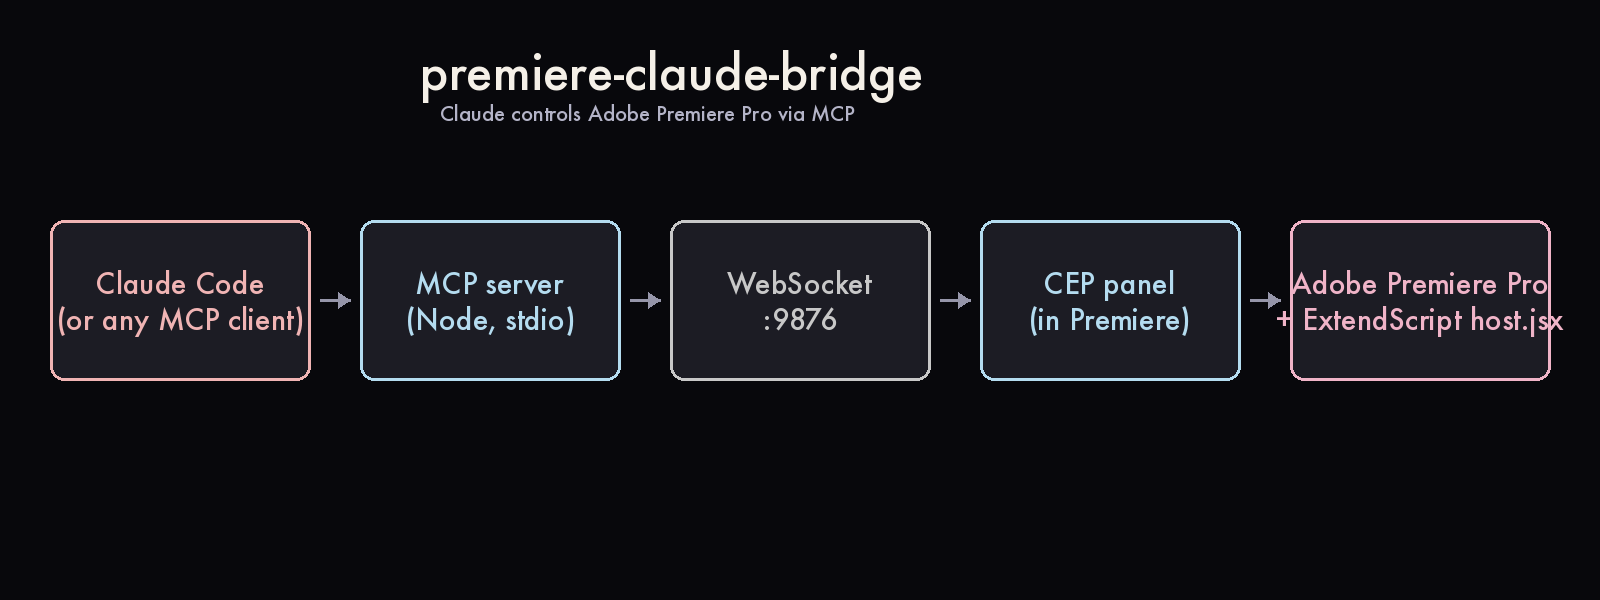
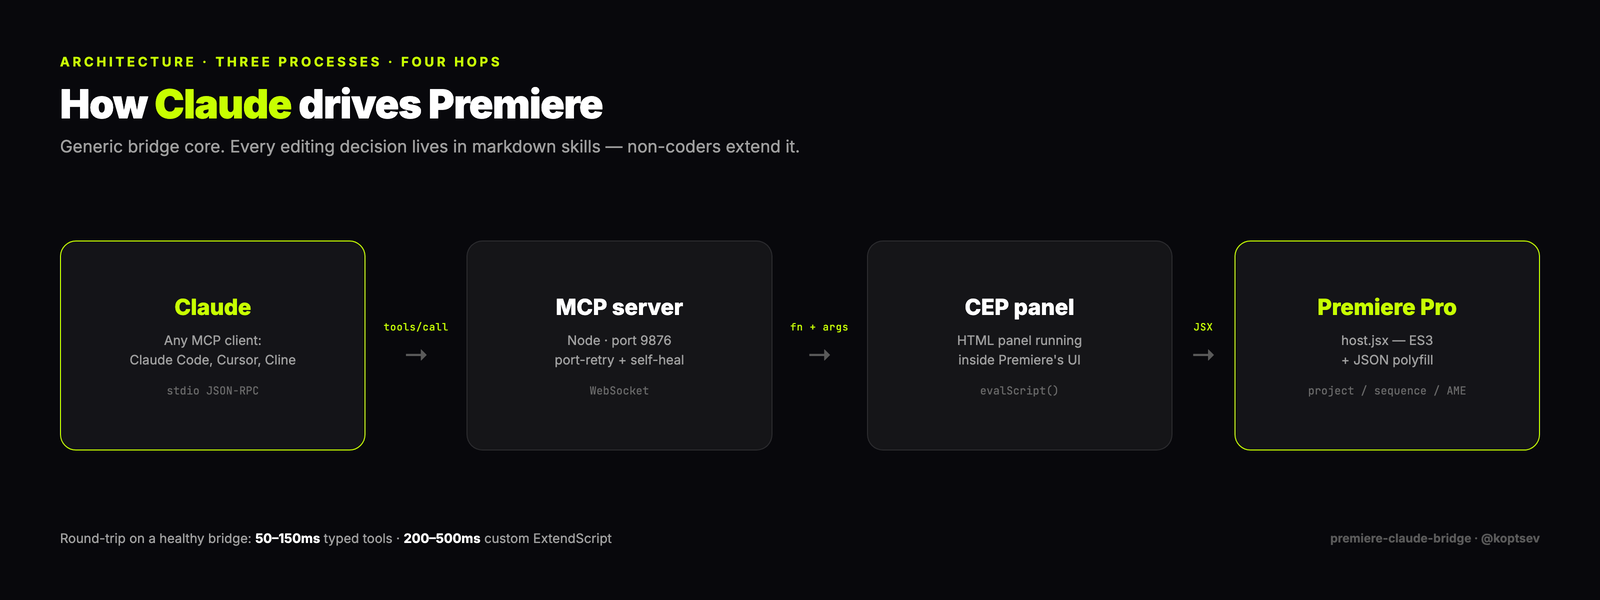
docs: replace crude PIL diagrams with brand Visual-DNA renders
- social-card.png: 1280x640 GitHub-social-size hero (dark #08080c,
  lime #c8ff00, Inter, film-strip sprockets, 4-node pipeline,
  108->1 / 10 tools / Rule-of-6 stats)
- architecture.png: 1600x600 "How Claude drives Premiere" diagram,
  same Visual DNA, three-processes-four-hops with protocol labels
- README: branded hero banner up top, arch diagram in Architecture section

diff --git a/README.md b/README.md
@@ -9,7 +9,7 @@
 [![Status: Beta](https://img.shields.io/badge/status-beta-yellow.svg)](#status)
 [![PRs Welcome](https://img.shields.io/badge/PRs-welcome-brightgreen.svg)](#contributing)
 
-![architecture](docs/img/architecture.png)
+![premiere-claude-bridge — control Adobe Premiere Pro from Claude](docs/img/social-card.png)
 
 **What you get in one sentence.** A bridge that lets Claude (or any MCP client) drive Premiere Pro on your Mac/PC the same way an assistant editor would — import dailies, build sequences, set in/out points, place markers, queue AME exports — but driven by natural-language prompts and an opinionated editing skill drawn from Walter Murch's *In the Blink of an Eye*.
 
@@ -221,6 +221,8 @@ Look for [`good first issue`](https://github.com/koptsev63/premiere-claude-bridg
 ---
 
 ## Architecture
+
+![How Claude drives Premiere — three processes, four hops](docs/img/architecture.png)
 
 See [`docs/architecture.md`](docs/architecture.md). Notable design choices:
 